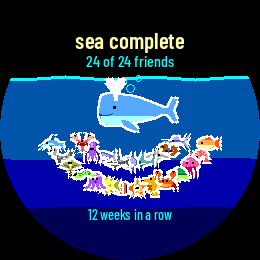
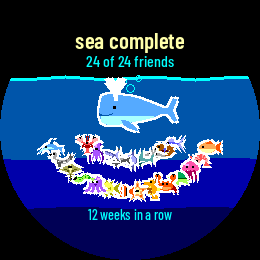
Mila: sea complete, glimlachbogen ruimer (blad v9)
Claude-Session: https://claude.ai/code/session_01RMWUyiTXyKZHj3TrhY69MY

Changed region(s): [[0.1231, 0.4923, 0.8615, 0.8]]

diff --git a/ontwerp/garmin/bron/blad_v9.py b/ontwerp/garmin/bron/blad_v9.py
@@ -95,7 +95,7 @@ def sea_complete(D_, weken=12):
         dr.ellipse([x - rr, y - rr, x + rr, y + rr], outline=SCHUIM, width=max(1, round(s)))
     h.teken(dr, D[23], c, round(108 * s), 38 if D_ < 300 else 66)
     m = 11 if D_ < 300 else 19; mx, my = c, 98 * s
-    bogen = ((90, 14, 30, 150), (64, 9, 42, 138))      # straal, aantal, van hoek, tot hoek (graden, 90 = onder)
+    bogen = ((93, 14, 32, 148), (62, 9, 46, 134))      # straal, aantal, van hoek, tot hoek (graden, 90 = onder)
     nr = 0
     for R, n, a0, a1 in bogen:
         for i in range(n):

diff --git a/ontwerp/garmin/ebb-blad-v9.md b/ontwerp/garmin/ebb-blad-v9.md
@@ -21,7 +21,7 @@ Oorzaak van het rafelige: het silhouet krijgt nu de rand door het dier 4 keer sc
 ## 3. "Sea complete": een eigen feest
 Geen gewoon eindscherm meer. Eén keer in je leven, dus het mag knallen:
 - De zee staat hoog (kamlijn op y 77), de **walvis groot in het midden** (maat 38 op 260, 66 op 454, op y 108) met drie belletjes als fontein.
-- **De 23 andere vrienden zwemmen in een glimlach onder hem**, in twee bogen rond (130, 98): buitenboog straal 90 met 14 dieren van hoek 30° tot 150°, binnenboog straal 64 met 9 dieren van 42° tot 138° (90° is recht onder), maat 11 op 260 en 19 op 454, volgorde nr 1 tot 23. Dat is de grap: je hele zee lacht naar je.
+- **De 23 andere vrienden zwemmen in een glimlach onder hem**, in twee bogen rond (130, 98): buitenboog straal 93 met 14 dieren van hoek 32° tot 148°, binnenboog straal 62 met 9 dieren van 46° tot 134° (90° is recht onder), maat 11 op 260 en 19 op 454, volgorde nr 1 tot 23. Dat is de grap: je hele zee lacht naar je.
 - Tekst: "sea complete" in geel (SemiBold 23, y 26), "24 of 24 friends" in schuim (y 51), "12 weeks in a row" onderin (y 206).
 - **Geen tijden op dit scherm**: die staan één knop verder in het duikprofiel. Eerlijk: wat je ziet zijn je eigen 24 dieren.
 - Gemeten: 0 pixels buiten 0,85 R, kader op het midden.

diff --git a/ontwerp/logboek-mila.md b/ontwerp/logboek-mila.md
@@ -287,3 +287,4 @@
 - **Besluit: volgend dier als zwarte schaduw met schuimrand.** Waarom: zwart werkt op elke zeetint, op AMOLED en MIP; "wie zwemt daar?".
 - Gemaakt: `bron/blad_v9.py`, `bron/fonts/` (Barlow Condensed, OFL), `blad9/`, `ebb-blad-v9.png`, `ebb-blad-v9.md`, `blad9/meting-v9.txt`, bericht Gijs.
 - Volgende run: na de bouw van Gijs v9 op de echte beelden nalopen; de binnenboog van sea complete op 260 iets ruimer als het past.
+- Tweede start (handmatig, 07:10-opdracht stond al af): bogen van sea complete verder uit elkaar (straal 93 en 62), zodat de twee rijen op 260 minder over elkaar vallen; nog steeds 0 pixels buiten 0,85 R.
